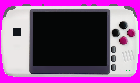
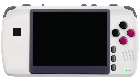
Refactor constants, make png transparent

Changed region(s): [[0.0, 0.0, 1.0, 1.0]]

diff --git a/pg2test.go b/pg2test.go
@@ -2,17 +2,9 @@ package main
 
 import (
 	mapset "github.com/deckarep/golang-set/v2"
+	"github.com/veandco/go-sdl2/img"
 	"github.com/veandco/go-sdl2/sdl"
 	"github.com/veandco/go-sdl2/ttf"
-	"strconv"
-)
-
-const (
-	fontPath           = "media/pixelberry.ttf"
-	fontSize           = 14
-	width              = 320
-	height             = 240
-	secondScreenOffset = 2500 //used for testing/debugging
 )
 
 func main() {
@@ -23,6 +15,7 @@ func main() {
 	var text *sdl.Surface
 	var err error
 	var pressedKeysCodes = mapset.NewSet[sdl.Keycode]()
+	var pngImage *sdl.Surface
 
 	if err = ttf.Init(); err != nil {
 		return
@@ -37,10 +30,10 @@ func main() {
 	numVideoDisplay, err := sdl.GetNumVideoDisplays()
 
 	window, err = sdl.CreateWindow(
-		"test",
-		int32(If(numVideoDisplay > 1, secondScreenOffset, sdl.WINDOWPOS_UNDEFINED)),
+		"pg2_test_go",
+		int32(If(numVideoDisplay > 1, SECOND_SCREEN_X_OFFSET, sdl.WINDOWPOS_UNDEFINED)),
 		sdl.WINDOWPOS_UNDEFINED,
-		width, height,
+		SCREEN_WIDTH, SCREEN_HEIGHT,
 		sdl.WINDOW_SHOWN|sdl.WINDOW_BORDERLESS)
 
 	if err != nil {
@@ -53,13 +46,25 @@ func main() {
 		panic(err)
 	}
 
-	surface.FillRect(nil, 0xffffffff)
+	surface.FillRect(nil, sdl.MapRGB(surface.Format, 16, 16, 16))
 
 	// Load the font for our text
-	if font, err = ttf.OpenFont(fontPath, fontSize); err != nil {
+	if font, err = ttf.OpenFont(FONT_PATH, FONT_SIZE); err != nil {
 		panic(err)
 	}
 	defer font.Close()
+
+	if pngImage, err = img.Load("media/pg2_back.png"); err != nil {
+		panic(err)
+	}
+	defer pngImage.Free()
+
+	//var colorKey, _ = pngImage.GetColorKey()
+	//var surf, _ = sdl.CreateRGBSurface(colorKey, pngImage.W, pngImage.H, 16, 0, 0, 0, 0)
+	//pngImage.Blit(nil, surf, nil)
+	pngImage.Blit(nil, surface, &sdl.Rect{X: 90, Y: 50, W: pngImage.W, H: pngImage.H})
+	//surf.SetColorKey(true, sdl.MapRGB(surface.Format, 255, 0, 255))
+	//defer surf.Free()
 
 	// Create a red text with the font
 	if text, err = font.RenderUTF8Blended("Hello, World!", sdl.Color{R: 255, G: 0, B: 0, A: 255}); err != nil {
@@ -68,7 +73,7 @@ func main() {
 	defer text.Free()
 
 	// Draw the text around the center of the window
-	if err = text.Blit(nil, surface, &sdl.Rect{X: width/2 - text.W/2, Y: height/2 - text.H/2, W: 0, H: 0}); err != nil {
+	if err = text.Blit(nil, surface, &sdl.Rect{X: SCREEN_WIDTH/2 - text.W/2, Y: SCREEN_HEIGHT/2 - text.H/2, W: 0, H: 0}); err != nil {
 		return
 	}
 
@@ -78,33 +83,35 @@ func main() {
 	for running {
 		for event := sdl.PollEvent(); event != nil; event = sdl.PollEvent() {
 			switch t := event.(type) {
-			case *sdl.QuitEvent:
-				running = false
 			case *sdl.KeyboardEvent:
 				keyCode := t.Keysym.Sym
-				if t.State == sdl.RELEASED {
-					pressedKeysCodes.Remove(keyCode)
-				} else if t.State == sdl.PRESSED {
+				if t.State == sdl.PRESSED {
 					pressedKeysCodes.Add(keyCode)
+				} else { // if t.State == sdl.RELEASED {
+					pressedKeysCodes.Remove(keyCode)
 				}
-
-				rect := sdl.Rect{0, 0, width, height}
-				surface.FillRect(&rect, 0xffffffff)
-				var txt = strconv.Itoa(int(keyCode)) + ":" + string(keyCode)
-				text, err = font.RenderUTF8Blended(txt, sdl.Color{R: 255, G: 0, B: 0, A: 255})
-				text.Blit(nil, surface, &sdl.Rect{X: width/2 - text.W/2, Y: height/2 - text.H/2, W: 0, H: 0})
-				window.UpdateSurface()
-
 				if pressedKeysCodes.Contains(sdl.K_q) ||
 					(pressedKeysCodes.Contains(GCW_BUTTON_L1) && pressedKeysCodes.Contains(GCW_BUTTON_START)) {
 					running = false
 				}
+				redraw()
 			}
 		}
 
 		//sdl.Delay(16)
 	}
 
+}
+
+func redraw() {
+	//rect := sdl.Rect{0, 0, SCREEN_WIDTH, SCREEN_HEIGHT}
+	//surface.FillRect(&rect, sdl.MapRGB(surface.Format, 16, 16, 16))
+	//
+	//var txt = strconv.Itoa(int(keyCode)) + ":" + string(keyCode)
+	//text, err = font.RenderUTF8Blended(txt, sdl.Color{R: 255, G: 0, B: 0, A: 255})
+	//text.Blit(nil, surface, &sdl.Rect{X: SCREEN_WIDTH/2 - text.W/2, Y: SCREEN_HEIGHT/2 - text.H/2, W: 0, H: 0})
+	//
+	//window.UpdateSurface()
 }
 
 func If[T any](cond bool, vTrue, vFalse T) T {

diff --git a/constants.go b/constants.go
@@ -2,29 +2,37 @@ package main
 
 import "github.com/veandco/go-sdl2/sdl"
 
-const GCW_BUTTON_UP = sdl.K_UP
-const GCW_BUTTON_DOWN = sdl.K_DOWN
-const GCW_BUTTON_LEFT = sdl.K_LEFT
-const GCW_BUTTON_RIGHT = sdl.K_RIGHT
+const (
+	FONT_PATH              = "media/pixelberry.ttf"
+	FONT_SIZE              = 14
+	SCREEN_WIDTH           = 320
+	SCREEN_HEIGHT          = 240
+	SECOND_SCREEN_X_OFFSET = 2500 //used for testing/debugging
 
-const GCW_BUTTON_A = sdl.K_LCTRL
-const GCW_BUTTON_B = sdl.K_LALT
-const GCW_BUTTON_X = sdl.K_SPACE
-const GCW_BUTTON_Y = sdl.K_LSHIFT
+	GCW_BUTTON_UP    = sdl.K_UP
+	GCW_BUTTON_DOWN  = sdl.K_DOWN
+	GCW_BUTTON_LEFT  = sdl.K_LEFT
+	GCW_BUTTON_RIGHT = sdl.K_RIGHT
 
-const GCW_BUTTON_L1 = sdl.K_TAB
-const GCW_BUTTON_R1 = sdl.K_BACKSPACE
+	GCW_BUTTON_A = sdl.K_LCTRL
+	GCW_BUTTON_B = sdl.K_LALT
+	GCW_BUTTON_X = sdl.K_SPACE
+	GCW_BUTTON_Y = sdl.K_LSHIFT
 
-const GCW_BUTTON_L2 = sdl.K_RSHIFT
-const GCW_BUTTON_R2 = sdl.K_RALT
+	GCW_BUTTON_L1 = sdl.K_TAB
+	GCW_BUTTON_R1 = sdl.K_BACKSPACE
 
-//const GCW_BUTTON_L2 = sdl.K_PAGEUP
-//const GCW_BUTTON_R2 = sdl.K_PAGEDOWN
+	GCW_BUTTON_L2 = sdl.K_RSHIFT
+	GCW_BUTTON_R2 = sdl.K_RALT
 
-const GCW_BUTTON_SELECT = sdl.K_ESCAPE
-const GCW_BUTTON_START = sdl.K_RETURN
-const GCW_BUTTON_MENU = sdl.K_RCTRL
+	//GCW_BUTTON_L2 = sdl.K_PAGEUP
+	//GCW_BUTTON_R2 = sdl.K_PAGEDOWN
 
-const GCW_BUTTON_L3 = sdl.K_KP_DIVIDE
-const GCW_BUTTON_R3 = sdl.K_KP_PERIOD
-const GCW_BUTTON_POWER = sdl.K_HOME
+	GCW_BUTTON_SELECT = sdl.K_ESCAPE
+	GCW_BUTTON_START  = sdl.K_RETURN
+	GCW_BUTTON_MENU   = sdl.K_RCTRL
+
+	GCW_BUTTON_L3    = sdl.K_KP_DIVIDE
+	GCW_BUTTON_R3    = sdl.K_KP_PERIOD
+	GCW_BUTTON_POWER = sdl.K_HOME
+)
